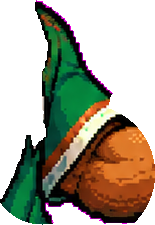
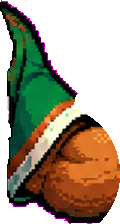
Layer whole-character fighters like the report and let rear arms extend
- The exporter writes the workflow's back-to-front order into the rig
  ("layers") and SkeletonRigSkin uses it for whole-character rigs, so the
  game layers parts exactly like the report's poses: near arm in front of
  the torso, far arm behind it (they were inverted).
- Joint overlaps now extend only the part drawn underneath. The part on top
  stays exact, so no copied art (like a sleeve on the torso) is left floating
  when a joint moves.
- Whole-character arms extend fully from their own shoulders. A shared
  forward line made the rear arm, whose drawn shoulder sits forward, fold at
  the elbow. AGENTS.md and the smoke test record this exception; the equal
  forward reach rule still holds for the other fighters.
- Magician run re-analysed in place and re-exported; tests check layering.

diff --git a/tools/whole_character_workflow.py b/tools/whole_character_workflow.py
@@ -613,11 +613,11 @@ def attach_held_item(parts: dict[str, Any], part_masks: dict[str, np.ndarray]) -
 
 def add_joint_overlaps(parts: dict[str, Any], part_masks: dict[str, np.ndarray], joints: dict[str, Any],
                        source_rgba: np.ndarray, foreground: np.ndarray, part_dir: Path) -> list[dict[str, Any]]:
-    """Let the two parts of each joint share the artwork inside a circle around it.
+    """Extend the lower part of each joint under its neighbor, inside a circle.
 
     Ownership stays exclusive (saved as core images for repair detection), but
-    each exported part also carries its neighbor's pixels near the joint, so a
-    rotation shows overlapping art instead of a hard cut.
+    the part drawn underneath also carries its neighbor's pixels near the joint,
+    so a rotation shows overlapping art instead of a hard cut or a gap.
     """
     height, width = foreground.shape
     grown = {name: mask.copy() for name, mask in part_masks.items()}
@@ -646,12 +646,16 @@ def add_joint_overlaps(parts: dict[str, Any], part_masks: dict[str, np.ndarray],
         twin = by_name.get(("far_" if side == "near" else "near_") + rest) if side in ("near", "far") else None
         if twin:
             item["radius_px"] = max(item["radius_px"], twin["radius_px"])
+    # Only the part drawn underneath extends under its neighbor. The part on top
+    # stays exact, so no copied art is left floating on it when the joint moves.
+    from render_whole_character_poses import DRAW_ORDER
     for item in overlaps:
         first, second = item["connects"]
+        lower = first if DRAW_ORDER.index(first) < DRAW_ORDER.index(second) else second
         cx, cy = item["center"]
         disk = ((xx - cx) ** 2 + (yy - cy) ** 2 <= item["radius_px"] ** 2) & (part_masks[first] | part_masks[second])
-        grown[first] |= disk
-        grown[second] |= disk
+        grown[lower] |= disk
+        item["extended_part"] = lower
         item["shared_pixels"] = int(disk.sum())
     for name, mask in grown.items():
         if parts[name]["status"] != "EXTRACTED":

diff --git a/tools/build_run_report.py b/tools/build_run_report.py
@@ -197,15 +197,18 @@ def build(run: Path) -> Path:
         overlaps = analysis.get("joint_overlaps", [])
         body = ""
         if overlaps:
-            body += ('<p class="note">Each part includes its neighbor\'s artwork inside the white circle around '
-                     "every joint, so rotated parts overlap instead of showing a hard cut. Circle radius is 1.3x "
+            body += ('<p class="note">At every joint, the part drawn underneath also carries its neighbor\'s '
+                     "artwork inside the white circle, so a rotation shows overlap instead of a hard cut or gap; "
+                     "the part on top stays exact. Circle radius is 1.3x "
                      "the rotating child part's half-width near the pivot, clamped to 32-90 px; near and far joints "
                      "share the larger radius.</p>")
             body += page.gallery([page.image(inspection / "joint-overlaps.png", "joint overlap circles")])
             rows = "".join(f"<tr><td>{html.escape(item['joint'])}</td><td>{item['radius_px']}</td>"
-                           f"<td>{' + '.join(item['connects'])}</td><td>{item['shared_pixels']}</td></tr>"
+                           f"<td>{' + '.join(item['connects'])}</td><td>{html.escape(item.get('extended_part', ''))}</td>"
+                           f"<td>{item['shared_pixels']}</td></tr>"
                            for item in overlaps)
-            body += ("<table><tr><th>joint</th><th>radius (px)</th><th>shared by</th><th>shared pixels</th></tr>"
+            body += ("<table><tr><th>joint</th><th>radius (px)</th><th>joint of</th><th>extended part</th>"
+                     "<th>overlap pixels</th></tr>"
                      f"{rows}</table><h3>Parts (with joint overlaps)</h3>")
         absent = [name for name, meta in analysis["parts"].items() if meta.get("status") == "ABSENT"]
         if absent:

diff --git a/tools/export_whole_character_rig.py b/tools/export_whole_character_rig.py
@@ -24,11 +24,14 @@ import shutil
 from pathlib import Path
 from typing import Any
 
+import sys
+
 import cv2
 import numpy as np
 from PIL import Image
 
 ROOT = Path(__file__).resolve().parents[1]
+sys.path.insert(0, str(ROOT / "tools"))
 RIG_ROOT = ROOT / "assets/fighters/rigged"
 CONTRACT = RIG_ROOT / "contract.json"
 # Game torso length (shoulders to hips) shared with the preserved-proportion rigs.
@@ -158,10 +161,16 @@ def export(analysis_path: Path, fighter: str, output: Path | None = None) -> Pat
         attachments[name] = {"parent": parent, "rect": rect(metadata), "image": f"{name}.png",
                              # Back accessories sit behind everything; a held item just behind its hand.
                              "layer": "back" if name == "back_accessory" else "behind_parent"}
+    # The workflow's back-to-front order, so the game layers parts like the report.
+    from render_whole_character_poses import draw_order
+    names = {**SLOTS, **{name: name for name in ATTACHMENTS}}
+    layers = [names[name] for name in draw_order(analysis) if name in names
+              and parts.get(name, {}).get("status") == "EXTRACTED"]
     torso_length = float(np.linalg.norm(np.subtract(*axes["torso_pelvis"])))
     profile = {"schema_version": 3, "fighter_id": fighter, "body_type": "standard",
                "render_mode": "whole_character", "pixel_scale": round(TARGET_TORSO_UNITS / torso_length, 6),
                "source_canvas": analysis["canvas"], "parts": profile_parts, "attachments": attachments,
+               "layers": layers,
                "source_analysis": str(analysis_path.resolve().relative_to(ROOT))
                if analysis_path.resolve().is_relative_to(ROOT) else analysis_path.name}
     profile_path = target / "profile.json"

diff --git a/tests/test_whole_character_workflow.py b/tests/test_whole_character_workflow.py
@@ -290,9 +290,11 @@ class WholeCharacterWorkflowTests(unittest.TestCase):
             thigh = report["parts"]["near_thigh"]
             self.assertEqual(report["joints"]["neck"]["method"], "above the shoulders' midpoint")
             torso_core_top = report["parts"]["torso_pelvis"]["core_crop_origin"][1]
-            self.assertLess(report["parts"]["torso_pelvis"]["crop_origin"][1] + report["parts"]["torso_pelvis"]["crop_size"][1],
-                            thigh["crop_origin"][1] + thigh["crop_size"][1] + 1)
-            self.assertLess(thigh["crop_origin"][1], 211)
+            # Only the part drawn underneath (the torso, below the thigh) extends.
+            self.assertEqual(hip["extended_part"], "torso_pelvis")
+            torso = report["parts"]["torso_pelvis"]
+            self.assertGreater(torso["crop_origin"][1] + torso["crop_size"][1], 211)
+            self.assertEqual(thigh["crop_origin"][1], 211)
             self.assertEqual(torso_core_top, 95)
 
             # Full CLI run on fixtures: isolation, detection, repair stage, assembly and report.

diff --git a/AGENTS.md b/AGENTS.md
@@ -12,6 +12,7 @@
 ## Fighter reach
 
 - Front and rear arms must have the same forward combat reach measured from the torso shoulder axis. Visual depth ordering must not reduce the rear arm's usable range.
+- Exception: whole-character rigs (`render_mode: "whole_character"`) keep their drawn shoulders, so their arms cannot share one forward line without the rear arm folding. Each arm must instead extend fully from its own shoulder; `tests/test_puppet_smoke.gd` checks this.
 - Any change to shoulder offsets, arm roots, or IK reach must exercise both `left_forearm` and `right_forearm` for every active visual style.
 
 ## Fighter asset workflow
